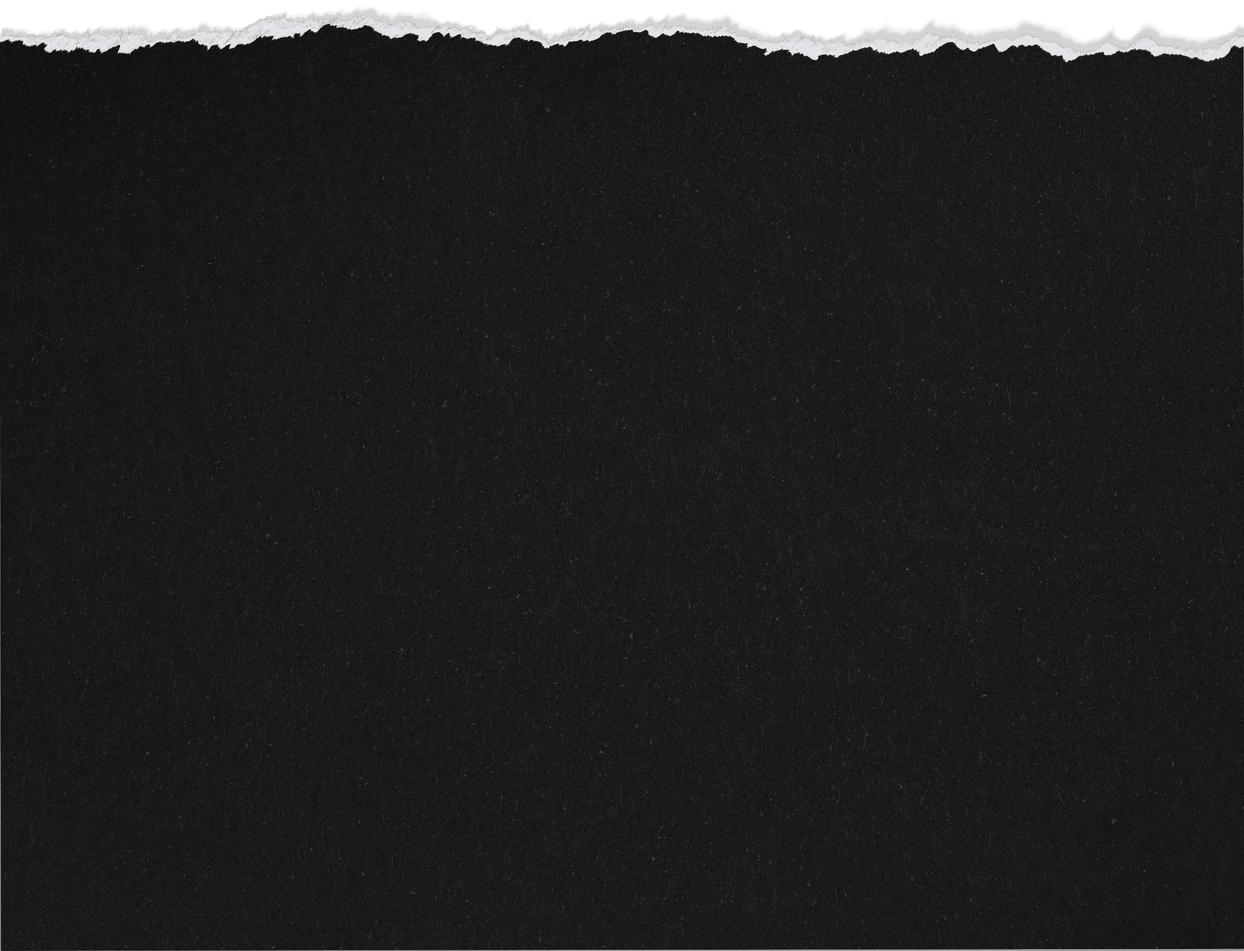
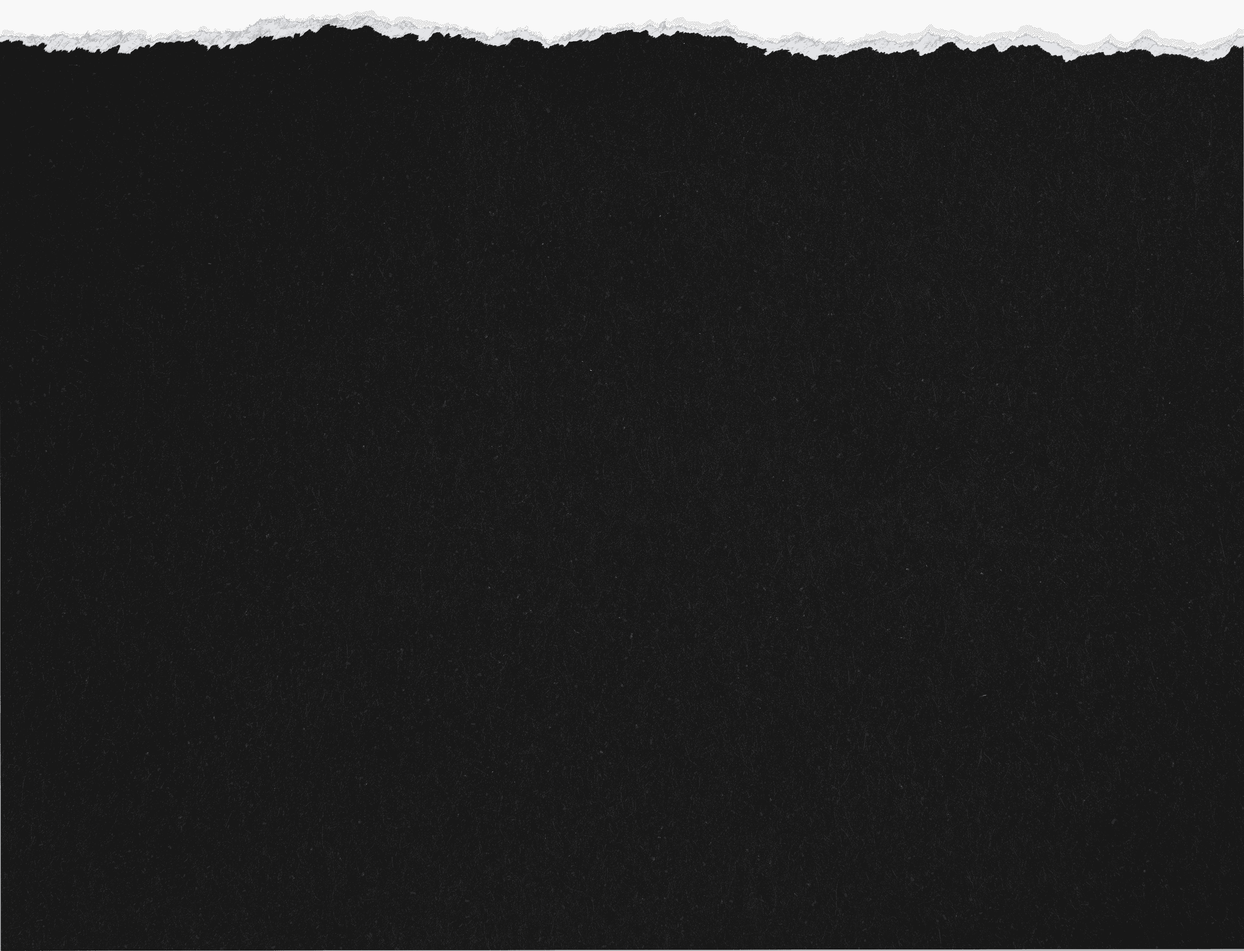
img komprimiet now

diff --git a/src/app/footer/footer.component.scss b/src/app/footer/footer.component.scss
@@ -62,8 +62,13 @@ footer {
 @media (max-width: 365px) {
     footer {
         a {
-            font-size: 12px!important;
+            font-size: 16px!important;
         }
     }
+}
 
+@media (max-width: 320px) {
+    .container {
+        width: 95%;;
+    }
 }
